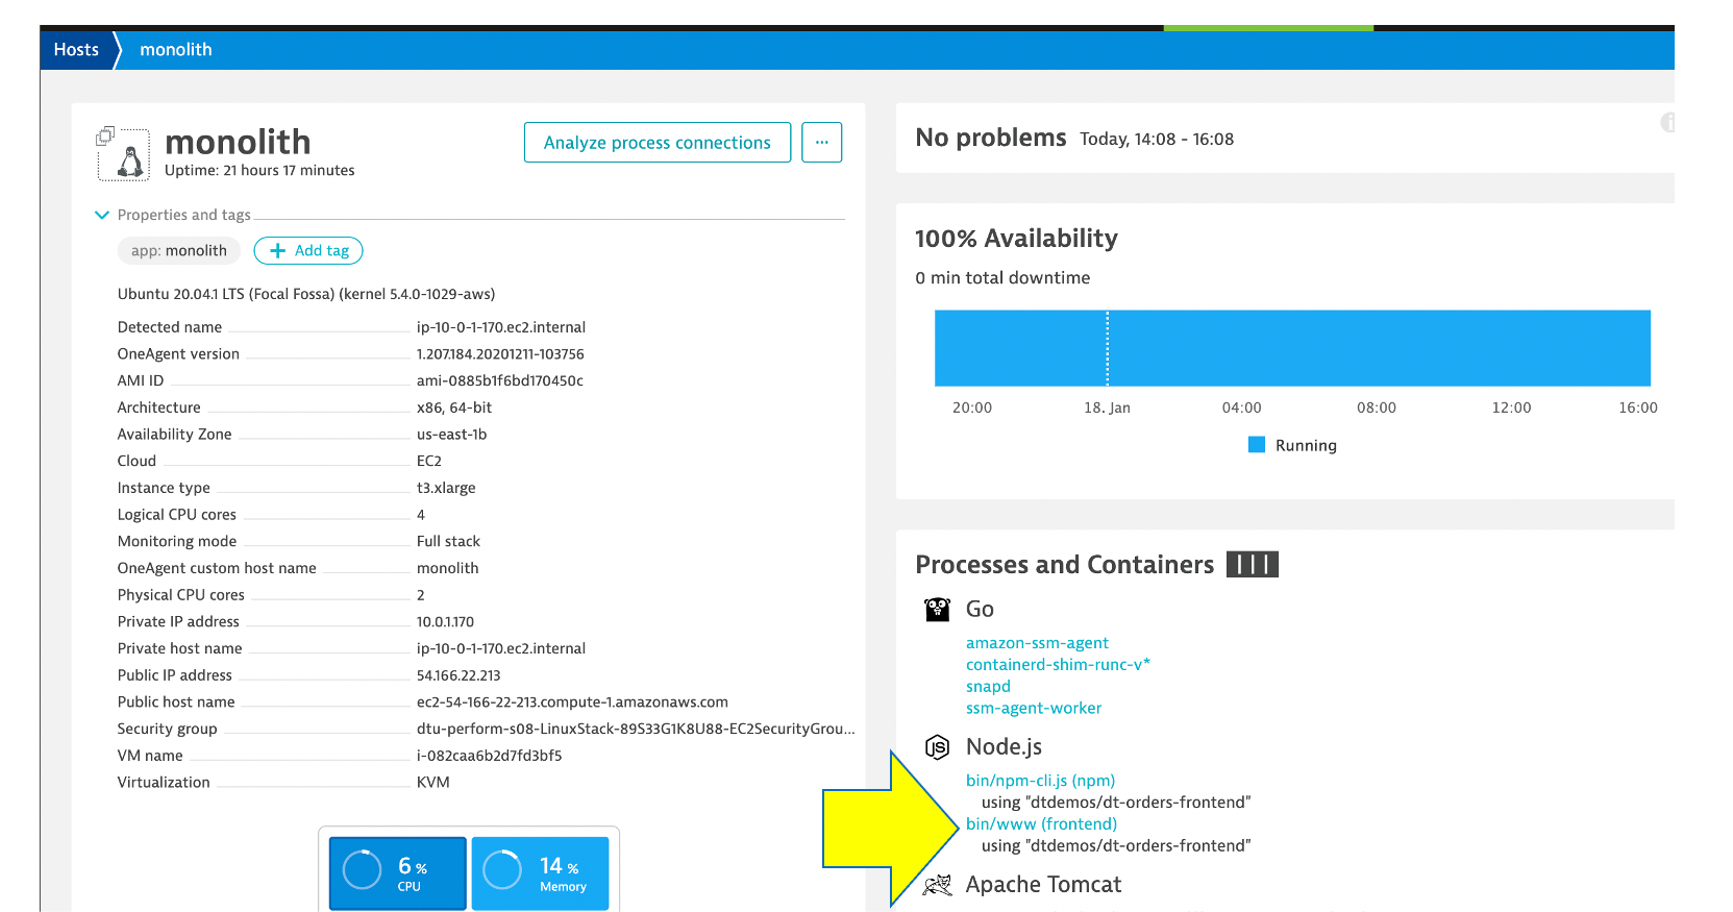
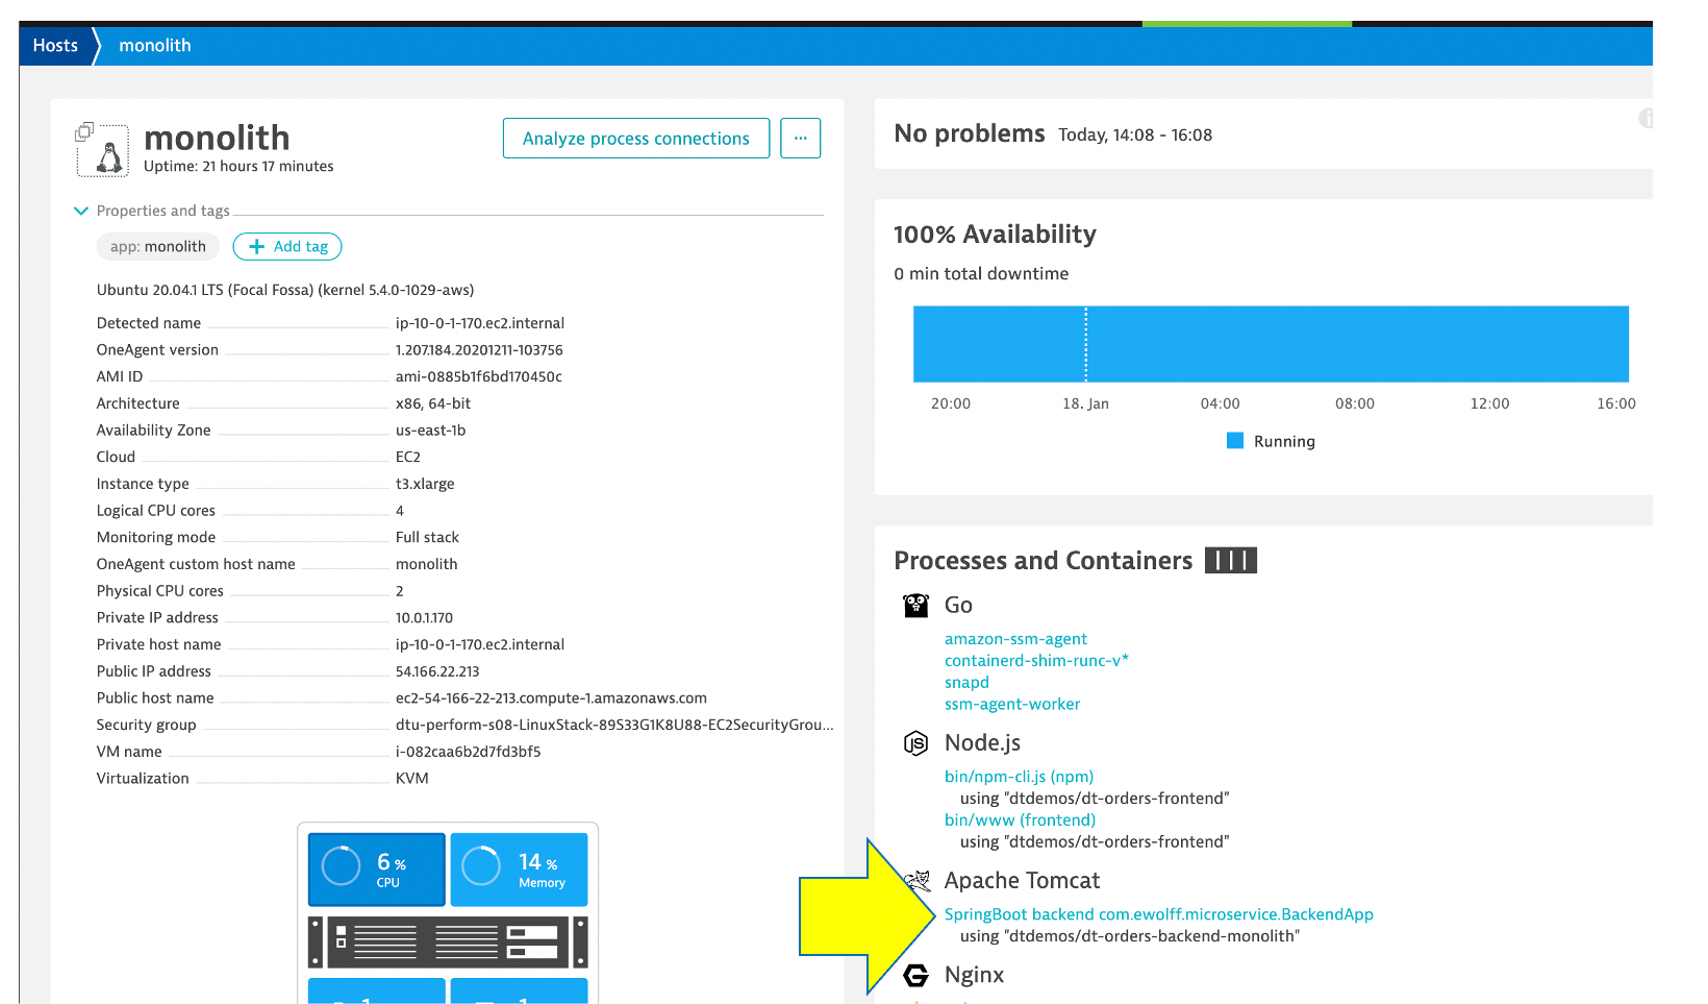
update lab1 materials

diff --git a/cloudmigration/content/01_lab_1/07_transactions_and_services/index.md b/cloudmigration/content/01_lab_1/07_transactions_and_services/index.md
@@ -1,31 +1,19 @@
-## Transactions
+## Service
 
-Within Dynatrace, services can take the form of web services, web containers, database requests, custom services, and more. Services may in turn call other services such as web services, remote services, and databases services.
+Web applications consist of web pages that are served by web servers and web application processses, for example Tomcat. Web and mobile applications are built upon services that process requests like web requests, web service calls, and messaging. 
 
-Web applications consist of web pages that are served by web servers and web containers, for example Tomcat. Web and mobile applications are built upon services that process requests like web requests, web service calls, and messaging. Such "server-side services" can take the form of web services, web containers, database requests, custom services, and more. Services may in turn call other services such as web services, remote services, and databases services.
+Such "server-side services" can take the form of web services, web containers, database requests, custom services, and more. Services may in turn call other services such as web services, remote services, and databases services.
 
+# TODO -- UPDATE THIS SECTION IF NEED TO ADD CUSTOM SERVICE ENTRY
 
-As you plan your migration, it is important to gain a complete picture of interdependency to the rest of the environment architecture at host, processes, services, application perspectives. Since time is always scarce, being able to do this in a single place can shorten assessment timelines.
+![image](../../../assets/images/lab1-dynamic-requests-arrow)
 
+![image](../../../assets/images/lab1-dynamic-requests-chart)
 
-### View the complete end to end flow 
+![image](../../../assets/images/lab1-dynamic-requests-list)
 
-Let’s now take a look at the transactions and Services by click on the `Transactions and services` left side Dynatrace menu.
-
-There a lot of services in this list. To help manage this list a [Dynatrace auto-tagging rule](https://www.dynatrace.com/support/help/how-to-use-dynatrace/tags-and-metadata/) was added by the workshop scripts and we can now use a tag filter to make this list more manageable.
-
-In the filter box, type tag, choose `workshop-group`, and the value of `ez-travel`. It should look like this:
-
-![image](../../assets/images/trans-services.png)
-
-You can now pick the `EasytravelService` service to open the service page. From the `Understand dependencies` section on the right, click the `view service flow` button to see what it calls. It should be more complex as shown below.
-
-![image](../../assets/images/ez-service-flow.png)
-
-### How this helps
+## How this helps
 
 Knowing the type of access, executed statements, and amount of data transferred during regular hours of operation allows for better planning and prioritization of the move groups. In some cases, you may decide to not migrate this database in favor of other services or databases that are less complex to migrate due to fewer dependencies.
 
-
-If you want to learn more about the approach and features available in Dynatrace to virtually break your monolithic architecture, have a look at [8-Step Recipe to Break Monoliths](https://www.dynatrace.com/news/blog/breaking-the-monolith-an-8-step-recipe/).
 

diff --git a/cloudmigration/content/01_lab_1/08_backtrace_and_serviceflow/index.md b/cloudmigration/content/01_lab_1/08_backtrace_and_serviceflow/index.md
@@ -1,0 +1,49 @@
+## Service Flow
+
+We just saw one way to review process and service communication, but Let’s look at how Dynatrace understands your applications’ transactions from end to end. and visualizes through **Service Backtraces** and **Service flows**.
+
+* With **Service backtrace**, you see the calls **TO** a service.,
+
+* With **Service flow**, you see the flow of service calls **FROM** a service, request, or their filtered subset. Along with the specific services that are triggered, you can also see how each component of a request contributes to the overall response time.
+
+As you plan your migration, it is important to gain a complete picture of interdependency to the rest of the environment architecture at host, processes, services, application perspectives. Since time is always scarce, being able to do this in a single place can shorten assessment timelines.
+
+### Service backtrace
+
+Dynatrace understands your applications transactions from end to end. This transactional insight is visualized several ways like the backtrace. The backtrace tree view represents the sequence of services that led to this service call, beginning with the page load or user action in the browser.
+
+From the **scripts_backend-service_1** service, click on the **Analyze Backtrace** button.
+
+![image](../../../assets/images/lab1-service-backtrace-arrow.png)
+
+You should be on the service backtrace page where you will see information for this specific service.
+
+![image](../../../assets/images/lab1-service-backtrace-arrows.png)
+
+Follow the picture above to locate the services that were called in what order that called the **scripts_backend-service_1**
+
+1 . The starting point is the **scripts_backend-service_1**
+
+2 . **scripts_backend-service_1** is called by the **scripts_front-end_1**
+
+3 . **scripts_front-end_1** is a where end user requests start and the user sessions get captured within the **My web application** by default.
+
+### Service Flow
+
+Now Let’s see another visualization called the service flow. 
+
+### View the complete end to end flow 
+
+Let’s now take a look at the transactions and Services by click on the `Transactions and services` left side Dynatrace menu.
+
+There a lot of services in this list. To help manage this list a [Dynatrace auto-tagging rule](https://www.dynatrace.com/support/help/how-to-use-dynatrace/tags-and-metadata/) was added by the workshop scripts and we can now use a tag filter to make this list more manageable.
+
+In the filter box, type `tag`, choose `app`, and the value of `monolith`. It should look like this:
+
+![image](../../../assets/images/lab1-trans-services.png)
+
+You can now pick the `scripts_front-end_1` service to open the service page. From the `Understand dependencies` section on the right, click the `view service flow` button to see what it calls. 
+
+![image](../../../assets/images/lab1-services-flow-button.png)
+
+# TODO -- UPDATE THIS SECTION ONCE FIX THE BACKEND APP TO NOT HAVE REST CALLS

diff --git a/cloudmigration/content/01_lab_1/06_databases/index.md b/cloudmigration/content/01_lab_1/06_databases/index.md
@@ -1,32 +1,21 @@
 ## Databases
 
-
 As you plan your migration, Database observability is critical to a successful plan. Knowing the type of access, executed statements, and amount of data transferred during regular hours of operation allows for better migration planning and prioritization of the move groups. In some cases, you may decide to not migrate this database in favor of other services or databases that are less complex to migrate due to fewer dependencies.
-
 
 To learn some out of the box features of Dynatrace, Let’s do a quick review the databases that exist for the sample application.
 
-### Review MongoDB
+### Review Database
 
-Click on the **Mongo** database to open the database page. 
+Click on the **scripts_backend-service_1 (HSQLDB)** database to open the database service page. 
 
-![image](../../assets/images/database.png)
+![image](../../../assets/images/lab1-pick-db.png)
 
-On this page you can explore the database process metrics like writes, reads, and drill into database statements.
+The sample application uses an [In memory Java relational database](http://hsqldb.org/).  On this page you can explore the database process metrics like writes, reads, and drill into database statements.
 
-![image](../../assets/images/database-mongo.png)
+![image](../../../assets/images/lab1-database.png)
 
-### Review SQL Database
-
-Click on the **Databases** link in the Dynatrace's left side menu to view the databases that OneAgent was able to automatically discover and instrument.
-
-As mentioned early, the sample application uses an [Apache Derby embedded relational database](https://en.wikipedia.org/wiki/Apache_Derby), but we also setup a easyTravel EC2 Instance that is running MongoDB in a docker container. So you should see both listed in the database view.
-
-![image](../../assets/images/database-derby.png)
-
-### How this helps
+## How this helps
 
 When monitoring database activity, Dynatrace shows you which database statements are executed most often and which statements take up the most time. You can also see which services execute the database statements what will be direct input to migration planning and prioritization of the move groups.
-
 
 Dynatrace monitors all the popular database SQL Server, Oracle, MongoDB to name a few. See [Dynatrace documentation](https://www.dynatrace.com/platform/database-monitoring/) for more details on platform support.

diff --git a/cloudmigration/content/01_lab_1/05_process_and_services/index.md b/cloudmigration/content/01_lab_1/05_process_and_services/index.md
@@ -8,9 +8,9 @@ As you plan your migration, you need more than just host level metrics.  Knowing
 
 Return back to the host view for the host with the prefix of **monolith** and locate the **Processes and Containers** section.
 
-Click on the **bin/www (frontend)** process in the **Processes and Containers** section to open the process detail view.
+Click on the **SpringBoot backend com.ewolff.microservice.BackendApp** process in the **Processes and Containers** section to open the process detail view.
 
-![image](../../assets/images/lab1-host-process.png)
+![image](../../../assets/images/lab1-host-process.png)
 
 ### Process view
 
@@ -26,7 +26,7 @@ You should be on the process page where you will see information for this proces
 
 ![image](../../../assets/images/lab1-process-view.png)
 
-:boom: **TECHNICAL NOTE**: that Dynatrace automatically recognizes many common processes like Tomcat and will capture process specific metrics such as JVM garbage collection. See a list of supported technologies in the [Dynatrace documentation](https://www.dynatrace.com/support/help/technology-support/supported-technologies-and-versions)
+💥 **TECHNICAL NOTE**: that Dynatrace automatically recognizes many common processes like Tomcat and will capture process specific metrics such as JVM garbage collection. See a list of supported technologies in the [Dynatrace documentation](https://www.dynatrace.com/support/help/technology-support/supported-technologies-and-versions)
 
 ### Did you notice Docker??
 
@@ -41,7 +41,7 @@ See more details in the [Dynatrace documentation](https://www.dynatrace.com/supp
 Now Let’s review a specific service.
 
 1. Click the **services** square above the host infographic to open the list of services
-1. From the list of services, choose the **BookingService**
+1. From the list of services, choose the **scripts_backend-service_1**
 
 ![image](../../../assets/images/lab1-process-view-list.png)
 

diff --git a/cloudmigration/content/01_lab_1/03_host_view/index.md b/cloudmigration/content/01_lab_1/03_host_view/index.md
@@ -6,7 +6,7 @@ From the left-side menu in Dynatrace choose **hosts** then click on the host wit
 
 ![image](../../../assets/images/lab1-hostlist.png)
 
-:boom: **TECHNICAL NOTE**: This host has this name since we added the option to set it during the OneAgent install process.  `/bin/sh Dynatrace-OneAgent-Linux-1.207.184.sh --set-host-name=monolith`  This is just [one of the ways](https://www.dynatrace.com/support/help/how-to-use-dynatrace/hosts/configuration/set-custom-host-names-in-dynamic-environments/) to customize host naming. 
+💥 **TECHNICAL NOTE**: This host has this name since we added the option to set it during the OneAgent install process.  `/bin/sh Dynatrace-OneAgent-Linux-1.207.184.sh --set-host-name=monolith`  This is just [one of the ways](https://www.dynatrace.com/support/help/how-to-use-dynatrace/hosts/configuration/set-custom-host-names-in-dynamic-environments/) to customize host naming. 
 
 On host page, you will see basic infrastructure information for the host.
 
@@ -17,7 +17,8 @@ On host page, you will see basic infrastructure information for the host.
 
 ![image](../../../assets/images/lab1-host-view.png)
 
-:boom: **TECHNICAL NOTE**: Dynatrace University has an interface that runs on nginx which are installed before the OneAgent is, so a warning on ungix is OK.
+💥 **TECHNICAL NOTE**: 
+Dynatrace University has an interface that runs on nginx which are installed before the OneAgent is, so a warning on ungix is OK.
 
 ## How this helps
 

diff --git a/cloudmigration/content/01_lab_1/09_technology_view/index.md b/cloudmigration/content/01_lab_1/09_technology_view/index.md
@@ -4,20 +4,22 @@ By default, Dynatrace gives you FullStack horizontal (who talks to whom) and ver
 
 Seeing which processes make up the monolith has been an eye-opener for many teams that have done this exercise. “Oh – we completely forgot about the dependency to this legacy process we introduced 5 years ago!” – that’s a common thing you hear!
 
-
 As you plan your migration, knowing what technologies make up your eco-system is key so what you can decide whether to migrate, refactor or replace certain services.
 
-
-### Technology View
+## Technology View
 
 Click on the **Technologies** link on the left side menu within Dynatrace to view the technologies that OneAgent was able to automatically discover and instrument.
 
-![image](../../assets/images/technology.png)
+![image](../../../assets/images/technology.png)
+
+In the filter box, type `tag`, choose `app`, and the value of `monolith`. It should look like this:
+
+![image](../../../assets/images/technology-filter.png)
 
 The workshop is somewhat limited, so here is an example from another environment.
 
-![image](../../assets/images/technology-demo.png)
+![image](../../../assets/images/technology-demo.png)
 
-### How this helps
+## How this helps
 
 This is another out the box feature that helps you understand what technologies are in your environment and with a heatmap presentation to what degree they exist. 

diff --git a/cloudmigration/content/01_lab_1/99_summary/index.md b/cloudmigration/content/01_lab_1/99_summary/index.md
@@ -10,6 +10,8 @@ By just installing the OneAgent, we have now gained a detailed topological view 
 
 In this section, you should have completed the following:
 
-* Review how to install and monitor the Dynatrace OneAgent
-* Review real-time data now available for the sample application
-* Review how Dynatrace helps with Pre-Migration Planning
+🔷 Review how to install and monitor the Dynatrace OneAgent
+
+🔷 Review real-time data now available for the sample application
+
+🔷 Review how Dynatrace helps with Pre-Migration Planning

diff --git a/cloudmigration/content/02_lab_2/index.md b/cloudmigration/content/02_lab_2/index.md
@@ -1,0 +1,24 @@
+## Lab 2 Overiew
+
+Add content here
+
+## Objectives of this Lab
+
+🔷 Objective 1
+
+🔷 Objective 2
+
+🔷 Objective 3
+
+# NOTES
+Open up sample app in browser
+In DT, Review how the sample app went to microservices
+For the sample app assess:
+Host view and smartscape
+Processes and Services
+Backtrace and Service Flow
+Transactions and Services
+Databases
+Technology View
+Review Kubernetes Dashboard & Demo kubectl commands
+Run kubectl commands (time permitting - bonus)

diff --git a/cloudmigration/content/01_lab_1/02_dynatrace_review/index.md b/cloudmigration/content/01_lab_1/02_dynatrace_review/index.md
@@ -35,7 +35,7 @@ To see the running OneAgent, choose the `Deployment status` option from the left
 
 ![image](../../../assets/images/lab1-deployment-status.png)
 
-:boom: **TECHNICAL NOTE**: Dynatrace University has a few interfaces that run before the OneAgent was installed. So some warnings are OK.
+💥 **TECHNICAL NOTE**: Dynatrace University has a few interfaces that run before the OneAgent was installed. So some warnings are OK.
 
 To see how the OneAgent gets installed
 

diff --git a/cloudmigration/content/03_lab_3/index.md b/cloudmigration/content/03_lab_3/index.md
@@ -1,0 +1,20 @@
+## Lab 3 Overiew
+
+Add content here
+
+## Objectives of this Lab
+
+🔷 Objective 1
+
+🔷 Objective 2
+
+🔷 Objective 3
+
+
+Enable a problem (let run)  - kubectl command
+Review what we did for:
+Tagging rules
+Service & Host naming
+Add a tag
+Review Before & After Dashboard
+Review a problem
